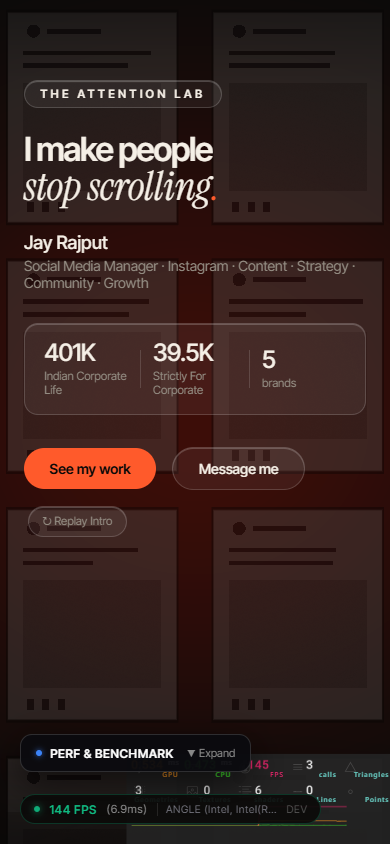
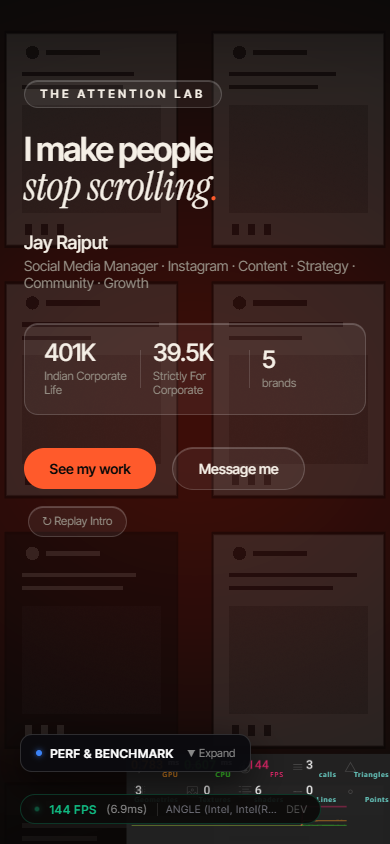
fix: hero blank for returning visitors, fonts, restore dropped features

diff --git a/src/app/page.tsx b/src/app/page.tsx
@@ -10,19 +10,24 @@ import { perfStore } from '@/store/perfStore';
 
 export default function HomePage() {
   const { name, title, tags } = profileData;
-  const [heroVisible, setHeroVisible] = React.useState(true);
   const [isGlassBlur, setIsGlassBlur] = React.useState(perfStore.getSettings().glassBlur);
   const [isDesktop, setIsDesktop] = React.useState(true);
+  const [heroVisible, setHeroVisible] = React.useState(true);
 
   React.useEffect(() => {
-    setHeroVisible(openingStore.isSeen());
+    if (!openingStore.isSeen()) {
+      setHeroVisible(false);
+    }
+
     const unsubOpening = openingStore.subscribe((s) => {
       if (s === 'completed') {
         setHeroVisible(true);
-      } else if (s === 'screen_1') {
-        setHeroVisible(false);
       }
     });
+
+    const fallbackTimer = setTimeout(() => {
+      setHeroVisible(true);
+    }, 9000);
 
     const unsubPerf = perfStore.subscribe((s) => {
       setIsGlassBlur(s.glassBlur);
@@ -37,6 +42,7 @@ export default function HomePage() {
     return () => {
       unsubOpening();
       unsubPerf();
+      clearTimeout(fallbackTimer);
       window.removeEventListener('resize', checkDesktop);
     };
   }, []);
@@ -60,7 +66,7 @@ export default function HomePage() {
       <OpeningOverlay />
 
       {/* Dev-Only Performance Toggle & Benchmark Panel */}
-      {heroVisible && <DevPerfPanel />}
+      <DevPerfPanel />
 
       {/* 01 & 02: HERO SECTION ("THE FEED THAT STOPS") */}
       <section id="hero" className="hero-section">

diff --git a/src/components/dev/DevPerfPanel.tsx b/src/components/dev/DevPerfPanel.tsx
@@ -10,6 +10,7 @@ interface BenchmarkResult {
 }
 
 export default function DevPerfPanel() {
+  const [mounted, setMounted] = useState(false);
   const [settings, setSettings] = useState<PerfSettings>(perfStore.getSettings());
   const [isOpen, setIsOpen] = useState(false);
   const [isBenchmarking, setIsBenchmarking] = useState(false);
@@ -18,6 +19,7 @@ export default function DevPerfPanel() {
   const [viewportInfo, setViewportInfo] = useState({ dpr: 1, width: 0, height: 0 });
 
   useEffect(() => {
+    setMounted(true);
     // Detect GPU Renderer Name & Viewport Info
     if (typeof window !== 'undefined') {
       try {
@@ -146,6 +148,10 @@ export default function DevPerfPanel() {
     }
   };
 
+  if (!mounted || process.env.NODE_ENV !== 'development') {
+    return null;
+  }
+
   return (
     <div
       style={{
@@ -153,7 +159,7 @@ export default function DevPerfPanel() {
         bottom: '4.5rem',
         left: '1.25rem',
         zIndex: 99999,
-        fontFamily: 'var(--font-display)',
+        fontFamily: 'var(--font-main)',
       }}
     >
       <div

diff --git a/src/components/dev/DevFpsCounter.tsx b/src/components/dev/DevFpsCounter.tsx
@@ -4,12 +4,14 @@ import React, { useEffect, useState, useRef } from 'react';
 import { perfStore } from '@/store/perfStore';
 
 export default function DevFpsCounter() {
+  const [mounted, setMounted] = useState(false);
   const [fps, setFps] = useState<number>(60);
   const [frameTime, setFrameTime] = useState<number>(16.6);
   const [gpuName, setGpuName] = useState<string>('');
   const rafRef = useRef<number | null>(null);
 
   useEffect(() => {
+    setMounted(true);
     let lastTime = performance.now();
     let frames = 0;
 
@@ -41,7 +43,7 @@ export default function DevFpsCounter() {
     };
   }, []);
 
-  if (process.env.NODE_ENV !== 'development') {
+  if (!mounted || process.env.NODE_ENV !== 'development') {
     return null;
   }
 

diff --git a/src/components/ui/OpeningOverlay.tsx b/src/components/ui/OpeningOverlay.tsx
@@ -7,7 +7,7 @@ import profileData from '@/../content/profile.json';
 export default function OpeningOverlay() {
   const [step, setStep] = useState<OpeningStep>('idle');
   const [showSkip, setShowSkip] = useState(false);
-  const [isBlackout, setIsBlackout] = useState(true);
+  const [isBlackout, setIsBlackout] = useState(false);
   const [stopTextState, setStopTextState] = useState<'none' | 'stop' | 'youdid' | 'tagline'>('none');
   const [isComplete, setIsComplete] = useState(false);
   const timeoutsRef = useRef<NodeJS.Timeout[]>([]);

diff --git a/src/components/canvas/OpeningScreens.tsx b/src/components/canvas/OpeningScreens.tsx
@@ -40,7 +40,9 @@ const PremiumClipShader = {
       float ambientWave = sin(uv.y * 3.0 + t * 0.8) * cos(uv.x * 2.5 - t * 0.6);
       vec3 tone = mix(bg, vec3(0.08, 0.08, 0.11), smoothstep(-1.0, 1.0, ambientWave));
 
-      float redLine = smoothstep(0.006, 0.0, lineDist);
+      float linePos = fract(t * 0.18);
+      float lineDist = abs(uv.y - linePos);
+      float redLine = 1.0 - smoothstep(0.0, 0.006, lineDist);
       vec3 accentColor = vec3(1.0, 0.353, 0.169); // #FF5A2B
 
       tone = mix(tone, accentColor, redLine * 0.85);

diff --git a/src/app/layout.tsx b/src/app/layout.tsx
@@ -41,7 +41,7 @@ export default function RootLayout({
 }) {
   return (
     <html lang="en" className={`${interTight.variable} ${instrumentSerif.variable}`}>
-      <body>
+      <body className={interTight.className}>
         <SmoothScrollProvider>
           {/* Persistent full-screen 3D canvas (frameloop active only in hero) */}
           <CanvasContainer />
